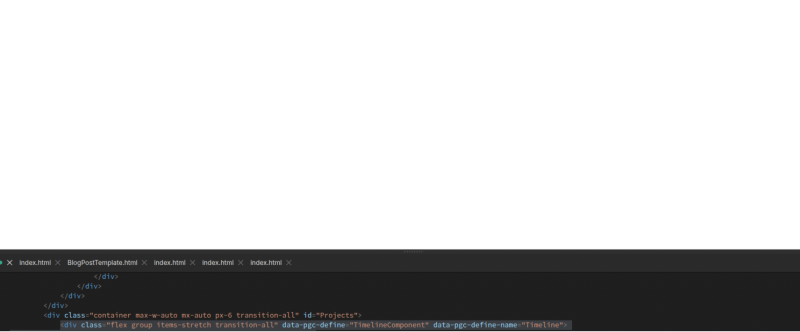
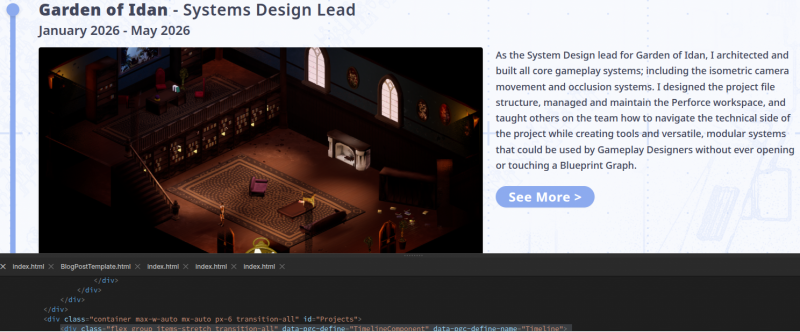
Signed-off-by: calicoBezudi <calico.bez@gmail.com>

diff --git a/_pgbackup/index_1779696679.html b/_pgbackup/index_1779696679.html
@@ -76,7 +76,7 @@ Hi! I&apos;m Calico. Game Development is very close to my heart. The challenge o
                         </div>                         
                         <div class="flex-1 flex flex-col justify-between" data-pgc-edit="Content">
                             <p class="font-medium font-sans leading-relaxed text-Surface-surface0 text-ctp-text text-lg" data-pgc-edit="Description">As the System Design lead for Garden of Idan, I architected and built all core gameplay systems; including the isometric camera movement and occlusion systems. I designed the project file structure, managed and maintain the Perforce workspace, and taught others on the team how to navigate the technical side of the project while creating tools and versatile, modular systems that could be used by Gameplay Designers without ever opening or touching a Blueprint Graph.</p>
-                            See More &gt;
+                            <a type="button" class="bg-Blue-500 block cursor-pointer font-bold font-sans mt-6 px-6 py-1 rounded-full self-start shadow-xs text-2xl text-white tracking-wide transition-opacity hover:bg-Blue-200" href target="_blank" data-pgc-edit="See More Button[class, target, href]">See More &gt;</a>
                         </div>
                     </div>
                 </div>
@@ -104,7 +104,6 @@ Hi! I&apos;m Calico. Game Development is very close to my heart. The challenge o
                         </div>
                     </div>
                 </div>
-                <!--[Pinegrow components saved data - this data is no longer used in the component. We're saving it just in case. Clear this with Components -> Clear saved unused edits]<button type="button" class="bg-Blue-500 block cursor-pointer font-bold font-sans hidden mt-6 px-6 py-1 rounded-full self-start shadow-sm text-2xl text-white tracking-wide transition-opacity hover:bg-Blue-200" data-pgc-field="See More Button" href>Itch.io &gt;</button>-->
             </div>
             <div class="flex group items-stretch transition-all" data-pgc="TimelineComponent">
                 <div class="flex justify-center relative shrink-0 w-12">
@@ -124,14 +123,11 @@ Hi! I&apos;m Calico. Game Development is very close to my heart. The challenge o
                         <div class="flex-1 flex flex-col justify-between" data-pgc-field="Content">
                             <p class="font-medium font-sans leading-relaxed text-Surface-surface0 text-ctp-text text-lg" data-pgc-field="Description">Through the course of 10 weeks, I created the gameplay prototype for Cold Fusion, a 3D shoot-&apos;em-up inside of Unreal Engine. I implemented complex systems such as dynamic Object Pooling, and constructed my systems in a way that a gameplay designer could easily use them, anticipating further development of the project in a team environment and to allow for rapid development of levels in the future.&nbsp;</p>
                             <button type="button" class="bg-Blue-500 block cursor-pointer font-bold font-sans hidden mt-6 px-6 py-1 rounded-full self-start shadow-sm text-2xl text-white tracking-wide transition-opacity hover:bg-Blue-200" data-pgc-field="See More Button" href="https://sites.google.com/view/calicobezuidenhout-game-405-01/home">Process Book
-                                &gt;
-</button>
+                                &gt;</button>
                             <a type="button" class="bg-Blue-500 block cursor-pointer font-bold font-sans mt-6 px-6 py-1 rounded-full self-start shadow-xs text-2xl text-white tracking-wide transition-opacity hover:bg-Blue-200" href="https://sites.google.com/view/calicobezuidenhout-game-405-01/home" target="_blank">Process Book &gt;</a>
                         </div>
                     </div>
                 </div>
-                <!--[Pinegrow components saved data - this data is no longer used in the component. We're saving it just in case. Clear this with Components -> Clear saved unused edits]<button type="button" class="bg-Blue-500 block cursor-pointer font-bold font-sans hidden mt-6 px-6 py-1 rounded-full self-start shadow-sm text-2xl text-white tracking-wide transition-opacity hover:bg-Blue-200" data-pgc-field="See More Button" href="https://sites.google.com/view/calicobezuidenhout-game-405-01/home">Process Book
-    &gt;</button>-->
             </div>
             <div class="flex group items-stretch transition-all" data-pgc="TimelineComponent">
                 <div class="flex justify-center relative shrink-0 w-12">
@@ -154,7 +150,6 @@ Hi! I&apos;m Calico. Game Development is very close to my heart. The challenge o
                         </div>
                     </div>
                 </div>
-                <!--[Pinegrow components saved data - this data is no longer used in the component. We're saving it just in case. Clear this with Components -> Clear saved unused edits]<button type="button" class="bg-Blue-500 block cursor-pointer font-bold font-sans mt-6 px-6 py-1 rounded-full self-start shadow-sm text-2xl text-white tracking-wide transition-opacity hover:bg-Blue-200" data-pgc-field="See More Button">See More &gt;</button>-->
             </div>
             <div class="flex group items-stretch transition-all" data-pgc="TimelineComponent">
                 <div class="flex justify-center relative shrink-0 w-12">
@@ -179,7 +174,6 @@ Hi! I&apos;m Calico. Game Development is very close to my heart. The challenge o
                         </div>
                     </div>
                 </div>
-                <!--[Pinegrow components saved data - this data is no longer used in the component. We're saving it just in case. Clear this with Components -> Clear saved unused edits]<button type="button" class="bg-Blue-500 block cursor-pointer font-bold font-sans hidden mt-6 px-6 py-1 rounded-full self-start shadow-sm text-2xl text-white tracking-wide transition-opacity hover:bg-Blue-200" data-pgc-field="See More Button">See More &gt;</button>-->
             </div>
             <div class="flex group items-stretch transition-all" data-pgc="TimelineComponent">
                 <div class="flex justify-center relative shrink-0 w-12">
@@ -198,12 +192,11 @@ Hi! I&apos;m Calico. Game Development is very close to my heart. The challenge o
                         </div>                         
                         <div class="flex-1 flex flex-col justify-between" data-pgc-field="Content">
                             <p class="font-medium font-sans leading-relaxed text-Surface-surface0 text-ctp-text text-lg" data-pgc-field="Description">Supercritical is one of my earliest works, which I developed along with a team of four other designers. We had six weeks to prototype, develop, and produce a physical copy of a four player cooperative board game that would play for up to 60 minutes. I acted as team lead, managing the asset list, task distribution, and scope decisions. I was also in charge of creating the core gameplay and narrative. Challenges included time management for the creation of assets, frequent playtesting within the class, and physically producing the game pieces; including printing locally, cutting, assembling ourselves.&nbsp;</p>
-                            <a type="button" class="bg-Blue-500 block cursor-pointer font-bold font-sans mt-6 px-6 py-1 rounded-full self-start shadow-sm text-2xl text-white tracking-wide transition-opacity hover:bg-Blue-200" data-pgc-field="See More Button" href="portfolio/Supercritical/index.html">See More &gt;</a>
-                            <a type="button" class="bg-Blue-500 block cursor-pointer font-bold font-sans mt-6 px-6 py-1 rounded-full self-start shadow-xs text-2xl text-white tracking-wide transition-opacity hover:bg-Blue-200" href="portfolio/EchoesOfTheForce/StarWars_EchoesOfTheForce_ConceptDocument_CalicoBezuidenhout.pdf" target="_blank">Concept Document &gt;</a>
+                            <button type="button" class="bg-Blue-500 block cursor-pointer font-bold font-sans hidden mt-6 px-6 py-1 rounded-full self-start shadow-sm text-2xl text-white tracking-wide transition-opacity hover:bg-Blue-200" data-pgc-field="See More Button" href="portfolio/Supercritical/index.html" target="_blank">See More &gt;</button>
+                            <a type="button" class="bg-Blue-500 block cursor-pointer font-bold font-sans mt-6 px-6 py-1 rounded-full self-start shadow-xs text-2xl text-white tracking-wide transition-opacity hover:bg-Blue-200" href="portfolio/Supercritical/index.html" target="_blank">See More &gt;</a>
                         </div>
                     </div>
                 </div>
-                <!--[Pinegrow components saved data - this data is no longer used in the component. We're saving it just in case. Clear this with Components -> Clear saved unused edits]<button type="button" class="bg-Blue-500 block cursor-pointer font-bold font-sans mt-6 px-6 py-1 rounded-full self-start shadow-sm text-2xl text-white tracking-wide transition-opacity hover:bg-Blue-200" data-pgc-field="See More Button" href="portfolio/Supercritical/index.html">See More &gt;</button>-->
             </div>
         </div>
         <footer class="bg-Blue-500 pb-20 transition-all" id="Footer">

diff --git a/index.html b/index.html
@@ -66,7 +66,7 @@ Hi! I&apos;m Calico. Game Development is very close to my heart. The challenge o
                     <div class="absolute bg-Blue-500 drop-shadow-md h-6 hidden mt-1.5 overflow-visible rounded-full w-6 z-10 group-first:block"></div>
                 </div>
                 <div class="flex-1 pb-16 pl-6">
-                    <h3 class="font-semibold text-3xl text-Surface-surface0 text-ctp-text tracking-wide" data-pgc-edit="Title and Role"> <b>Garden of Idan</b> - System Design Lead </h3>
+                    <h3 class="font-semibold text-3xl text-Surface-surface0 text-ctp-text tracking-wide" data-pgc-edit="Title and Role"> <b>Garden of Idan</b> - Systems Design Lead </h3>
                     <p class="font-semibold mb-4 mt-1 text-2xl text-Surface-surface0 text-ctp-subtext1" data-pgc-edit="Date">
                 January 2026 - May 2026 </p>
                     <div class="flex flex-col lg:flex-row gap-6 items-start">
@@ -76,7 +76,7 @@ Hi! I&apos;m Calico. Game Development is very close to my heart. The challenge o
                         </div>                         
                         <div class="flex-1 flex flex-col justify-between" data-pgc-edit="Content">
                             <p class="font-medium font-sans leading-relaxed text-Surface-surface0 text-ctp-text text-lg" data-pgc-edit="Description">As the System Design lead for Garden of Idan, I architected and built all core gameplay systems; including the isometric camera movement and occlusion systems. I designed the project file structure, managed and maintain the Perforce workspace, and taught others on the team how to navigate the technical side of the project while creating tools and versatile, modular systems that could be used by Gameplay Designers without ever opening or touching a Blueprint Graph.</p>
-                            <a type="button" class="bg-Blue-500 block cursor-pointer font-bold font-sans mt-6 px-6 py-1 rounded-full self-start shadow-xs text-2xl text-white tracking-wide transition-opacity hover:bg-Blue-200" href target="_blank" data-pgc-edit="See More Button[class, target, href]">See More &gt;</a>
+                            <a type="button" class="bg-Blue-500 block cursor-pointer font-bold font-sans mt-6 px-6 py-1 rounded-full self-start shadow-xs text-2xl text-white tracking-wide transition-opacity hover:bg-Blue-200" href="" target="_blank" data-pgc-edit="See More Button[class, target, href]">See More &gt;</a>
                         </div>
                     </div>
                 </div>
